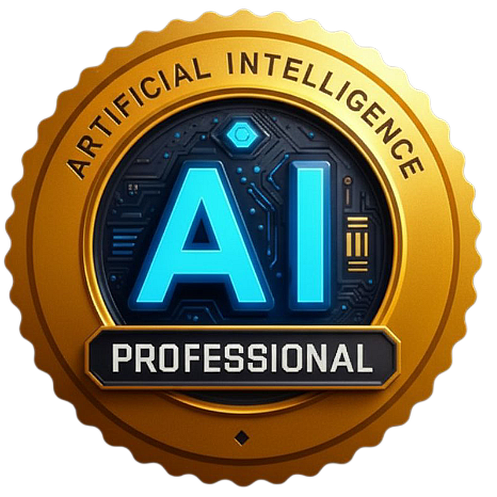
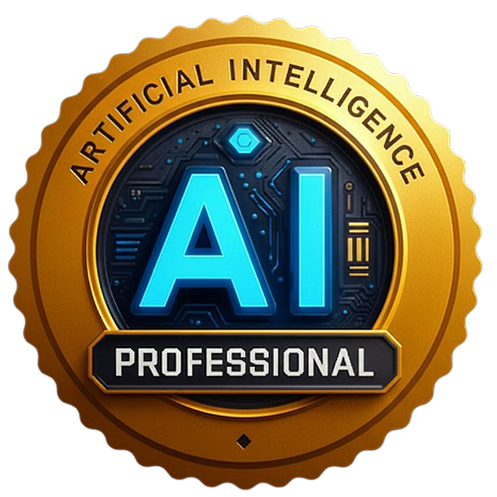
update: align badge and text

diff --git a/README.md b/README.md
@@ -1,5 +1,5 @@
 # ADEEL MALIK
-**AI/ML Engineer | Full-Stack AI Engineering**  
+**Full-Stack AI/ML Engineering**  
 
 I design, build, and deploy intelligent systems that turn ideas into scalable, real-world applications. Blending AI research, software engineering, and full-stack development, I focus on creating solutions that are not only accurate, but also production-ready and impactful.  
 
